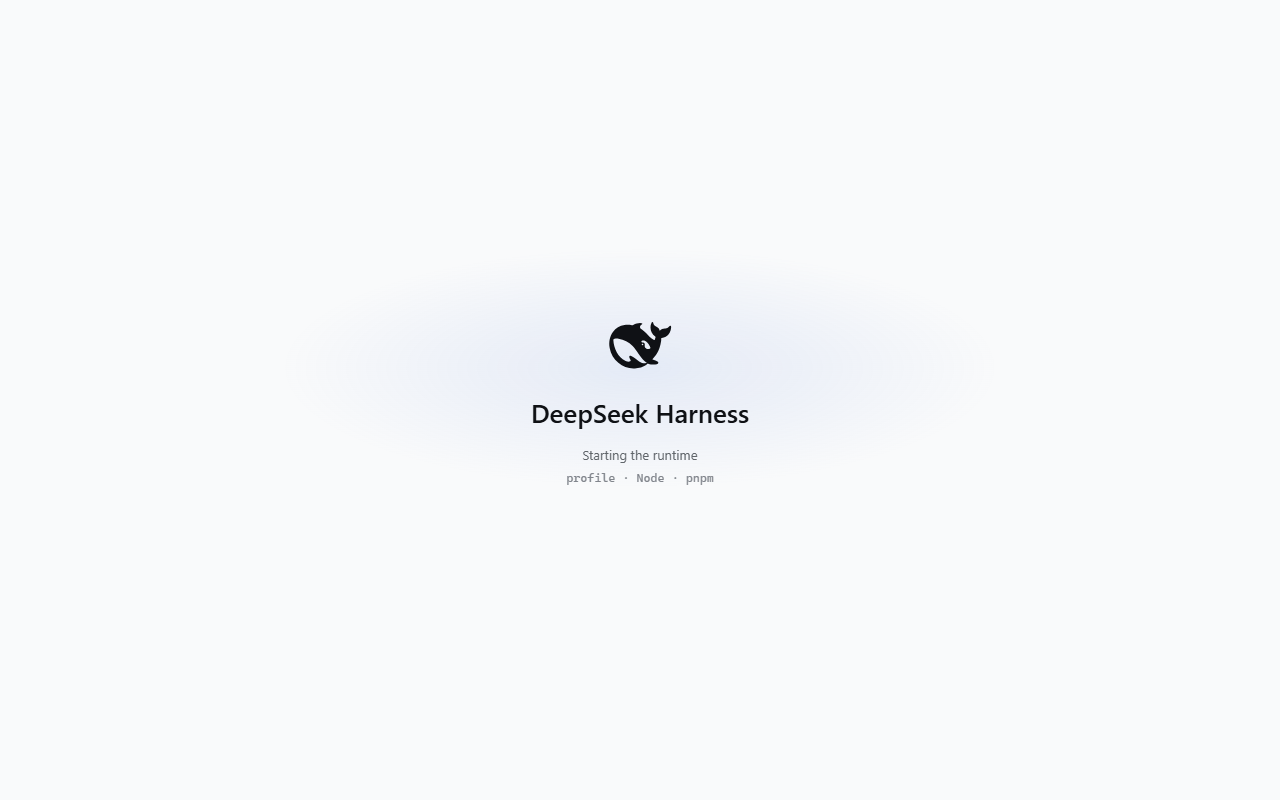
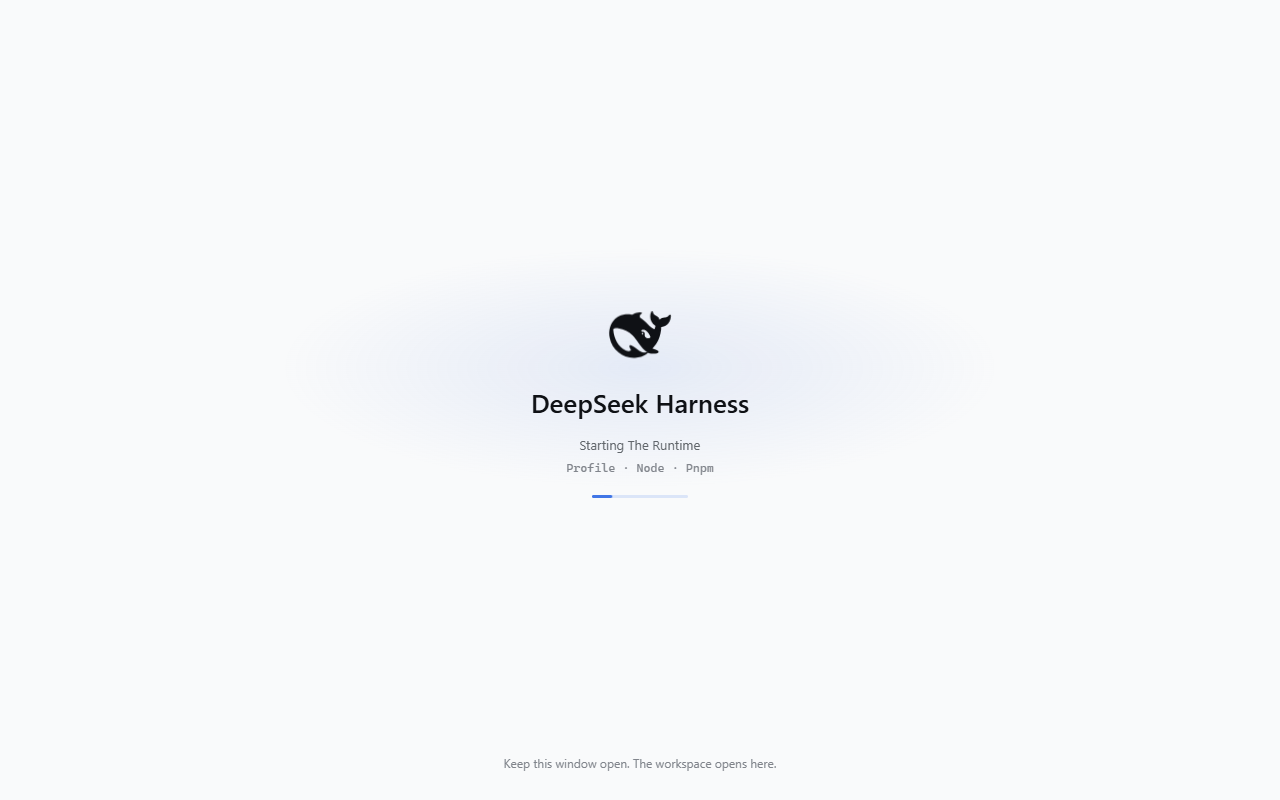
Enhance boot screen functionality and visuals
- Updated boot screen layout to include a loading indicator with animated dots for improved user feedback during startup.
- Added new checks in the verification script to ensure the loading indicator is displayed correctly.
- Introduced new CSS styles for the loading indicator, enhancing visual appeal and user experience.
- Updated boot screen images to align with the new design specifications.

Changed region(s): [[0.4062, 0.5, 0.5938, 0.625], [0.4688, 0.375, 0.5312, 0.4688], [0.4062, 0.9375, 0.5938, 0.9688]]

diff --git a/src/renderer/src/assets/main.css b/src/renderer/src/assets/main.css
@@ -13,6 +13,7 @@
   --boot-mute: #61666b; /* bluish-700 */
   --boot-faint: #81858c; /* bluish-600 */
   --boot-glow: rgb(97 135 216 / 14%); /* hero ellipse #6187D8 */
+  --boot-brand: #4176e6; /* deepseek-500 */
   --boot-error: #ec1313; /* red-600 */
   --boot-error-soft: rgb(254 242 242); /* red-50 */
 }
@@ -100,6 +101,9 @@ body {
   align-items: center;
   text-align: center;
   padding: 0 24px;
+  /* Drag regions on Windows can freeze CSS animations; keep the waiting
+     cluster out of the window-move hit target. */
+  -webkit-app-region: no-drag;
 }
 
 .boot-logo {
@@ -108,6 +112,11 @@ body {
   height: 64px;
   margin: 0 0 20px;
   color: var(--boot-ink);
+  transform-origin: 50% 60%;
+}
+
+.boot[data-state='booting'] .boot-logo {
+  animation: boot-swim 2.4s ease-in-out infinite;
 }
 
 .boot-logo svg {
@@ -164,6 +173,57 @@ body {
   font-size: 12px;
   line-height: 18px;
   color: var(--boot-faint);
+}
+
+.boot-wait {
+  display: flex;
+  align-items: center;
+  justify-content: center;
+  gap: 8px;
+  height: 14px;
+  margin: 18px 0 0;
+}
+
+.boot-wait span {
+  width: 7px;
+  height: 7px;
+  border-radius: 50%;
+  background: var(--boot-brand);
+  opacity: 0.22;
+  animation: boot-dot 1.05s ease-in-out infinite;
+}
+
+.boot-wait span:nth-child(2) {
+  animation-delay: 0.18s;
+}
+
+.boot-wait span:nth-child(3) {
+  animation-delay: 0.36s;
+}
+
+@keyframes boot-swim {
+  0%,
+  100% {
+    transform: translate(0, 0) rotate(0deg);
+  }
+  35% {
+    transform: translate(-3px, -4px) rotate(-8deg);
+  }
+  70% {
+    transform: translate(3px, 1px) rotate(5deg);
+  }
+}
+
+@keyframes boot-dot {
+  0%,
+  100% {
+    opacity: 0.22;
+    transform: translateY(0);
+  }
+  50% {
+    opacity: 1;
+    transform: translateY(-4px);
+  }
 }
 
 .boot-detail {
@@ -223,7 +283,22 @@ body {
 }
 
 @media (prefers-reduced-motion: reduce) {
-  .boot-glow {
+  .boot-glow,
+  .boot[data-state='booting'] .boot-logo {
     animation: none;
+  }
+
+  .boot-wait span {
+    animation: boot-dot-fade 1.05s ease-in-out infinite;
+  }
+}
+
+@keyframes boot-dot-fade {
+  0%,
+  100% {
+    opacity: 0.22;
+  }
+  50% {
+    opacity: 1;
   }
 }

diff --git a/src/renderer/src/App.tsx b/src/renderer/src/App.tsx
@@ -44,6 +44,11 @@ function App(): React.JSX.Element {
             <>
               <p className="boot-line">Starting The Runtime</p>
               <p className="boot-sub">Profile · Node · Pnpm</p>
+              <span className="boot-wait" aria-hidden="true">
+                <span />
+                <span />
+                <span />
+              </span>
             </>
           )}
         </section>
